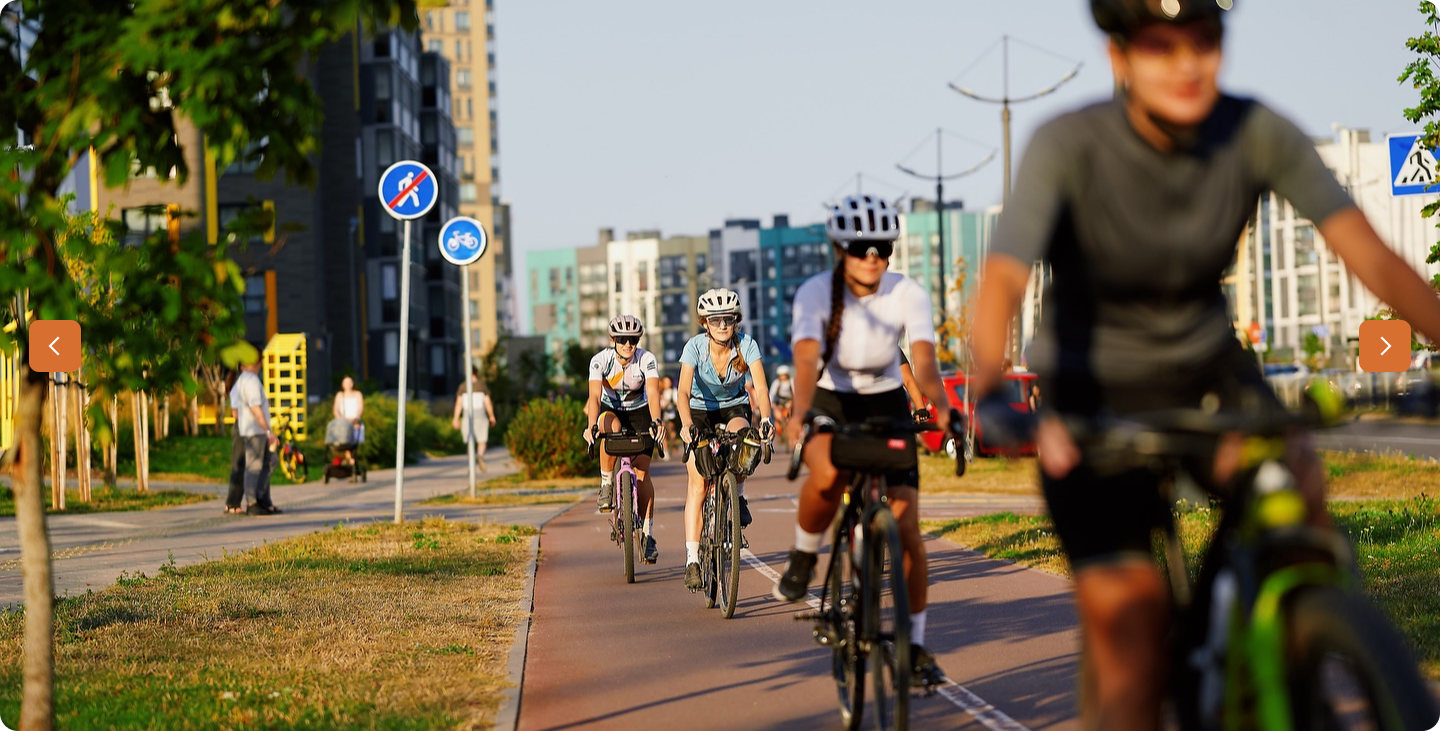
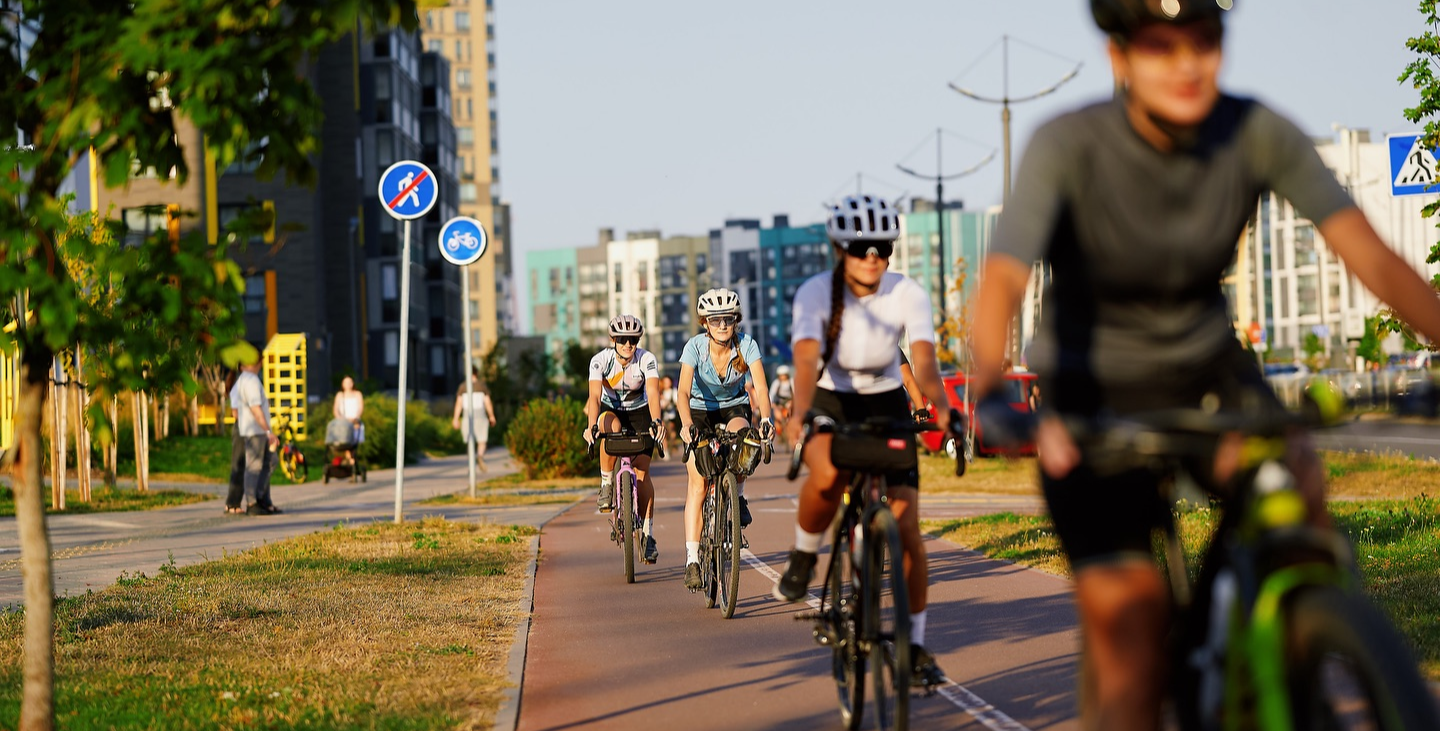
add new landing

diff --git a/js/main.js b/js/main.js
@@ -86,6 +86,14 @@ $(function (){
         fade: true,
         cssEase: 'linear'
     });
+    $('.life-list').slick({
+        dots: false,
+        arrows: true,
+        infinite: true,
+        speed: 500,
+        fade: true,
+        cssEase: 'linear'
+    });
     $('.landing .apartments__banner').slick({
         dots: false,
         arrows: true,
@@ -171,10 +179,12 @@ $(function (){
 
     $('.apartment__list--parking .apartment__btn').on('click', function (){
         $('.apartment__img--parking img').hide();
-        $('.apartment__img--parking img').eq($(this).index() ).show()
+        $('.apartment__img--parking img').eq($(this).index() ).show();
+        $('.apartment__list--parking').parent().find('.apartment__select').trigger('click')
     })
     $('.apartment__list--home .apartment__btn').on('click', function (){
         $('.apartment__list--home-img img').hide();
-        $('.apartment__list--home-img  img').eq($(this).index() ).show()
+        $('.apartment__list--home-img  img').eq($(this).index() ).show();
+        $('.apartment__list--home').parent().find('.apartment__select').trigger('click')
     })
 })

diff --git a/landing.html b/landing.html
@@ -596,9 +596,17 @@
             </div>
         </div>
     </div>
-    <div class="life">
+    <div class="life ">
         <h2 class="section__title ">Жизнь в Новой Боровой</h2>
-        <img src="img/landing/img5.png" alt="">
+        <div class="life-list">
+
+            <img src="img/landing/img5.png" alt="">
+            <img src="img/landing/img5.png" alt="">
+            <img src="img/landing/img5.png" alt="">
+            <img src="img/landing/img5.png" alt="">
+            <img src="img/landing/img5.png" alt="">
+            <img src="img/landing/img5.png" alt="">
+        </div>
     </div>
 
     <div class="map">

diff --git a/css/main.css b/css/main.css
@@ -879,6 +879,25 @@ nav{
     height: 20px;
     background: url('../img/arrow-left-white.svg');
 }
+.life .slick-next, .life .slick-prev{
+    width: 52px;
+    height: 52px;
+    background: #D76F30;
+    border-radius: 10px;
+}
+.life .slick-next:before{
+    width: 12px;
+    height: 20px;
+    background: url('../img/arrow-right-white.svg');
+}
+.life .slick-prev:before{
+    width: 12px;
+    height: 20px;
+    background: url('../img/arrow-left-white.svg');
+}
+.life img{
+    border-radius: 18px;
+}
 .map{
     max-width: 1442px;
     margin: 32px auto;
